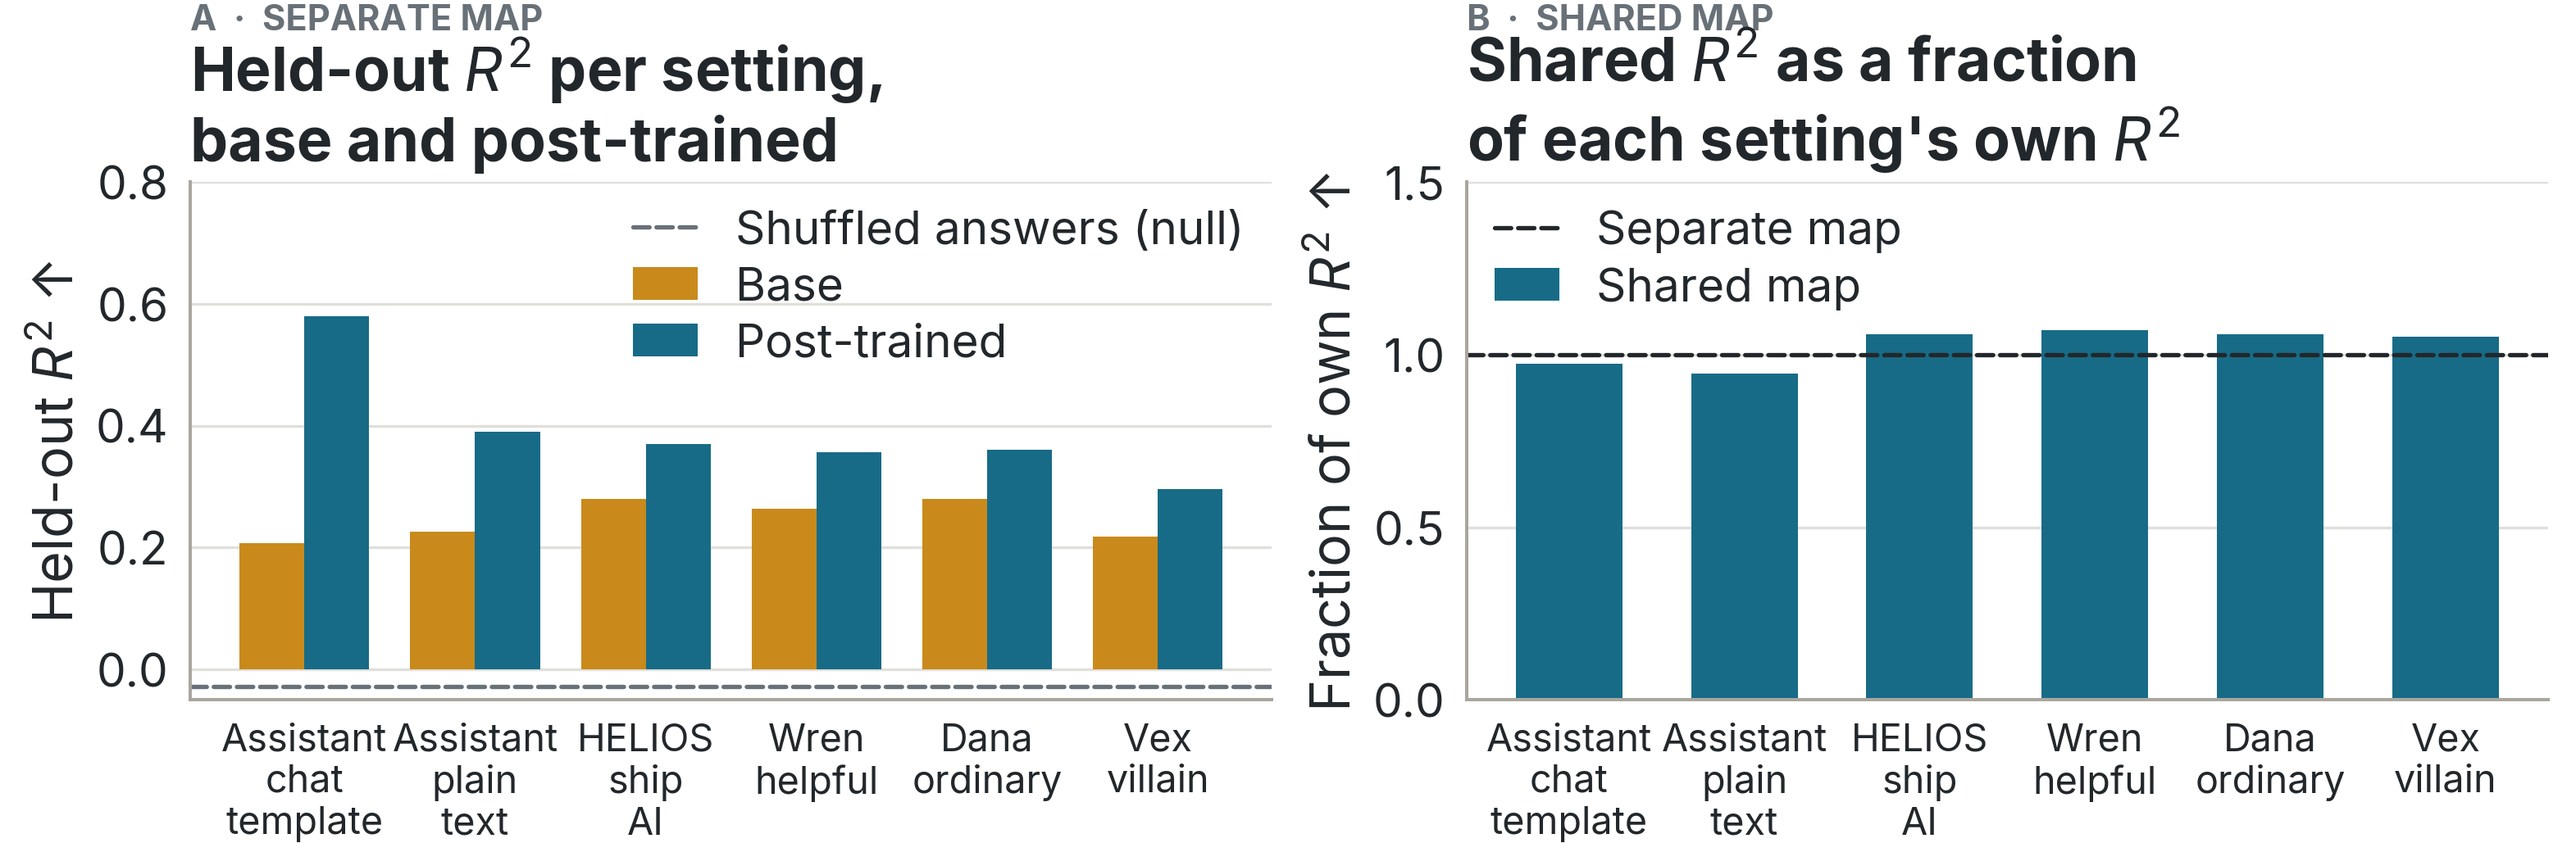
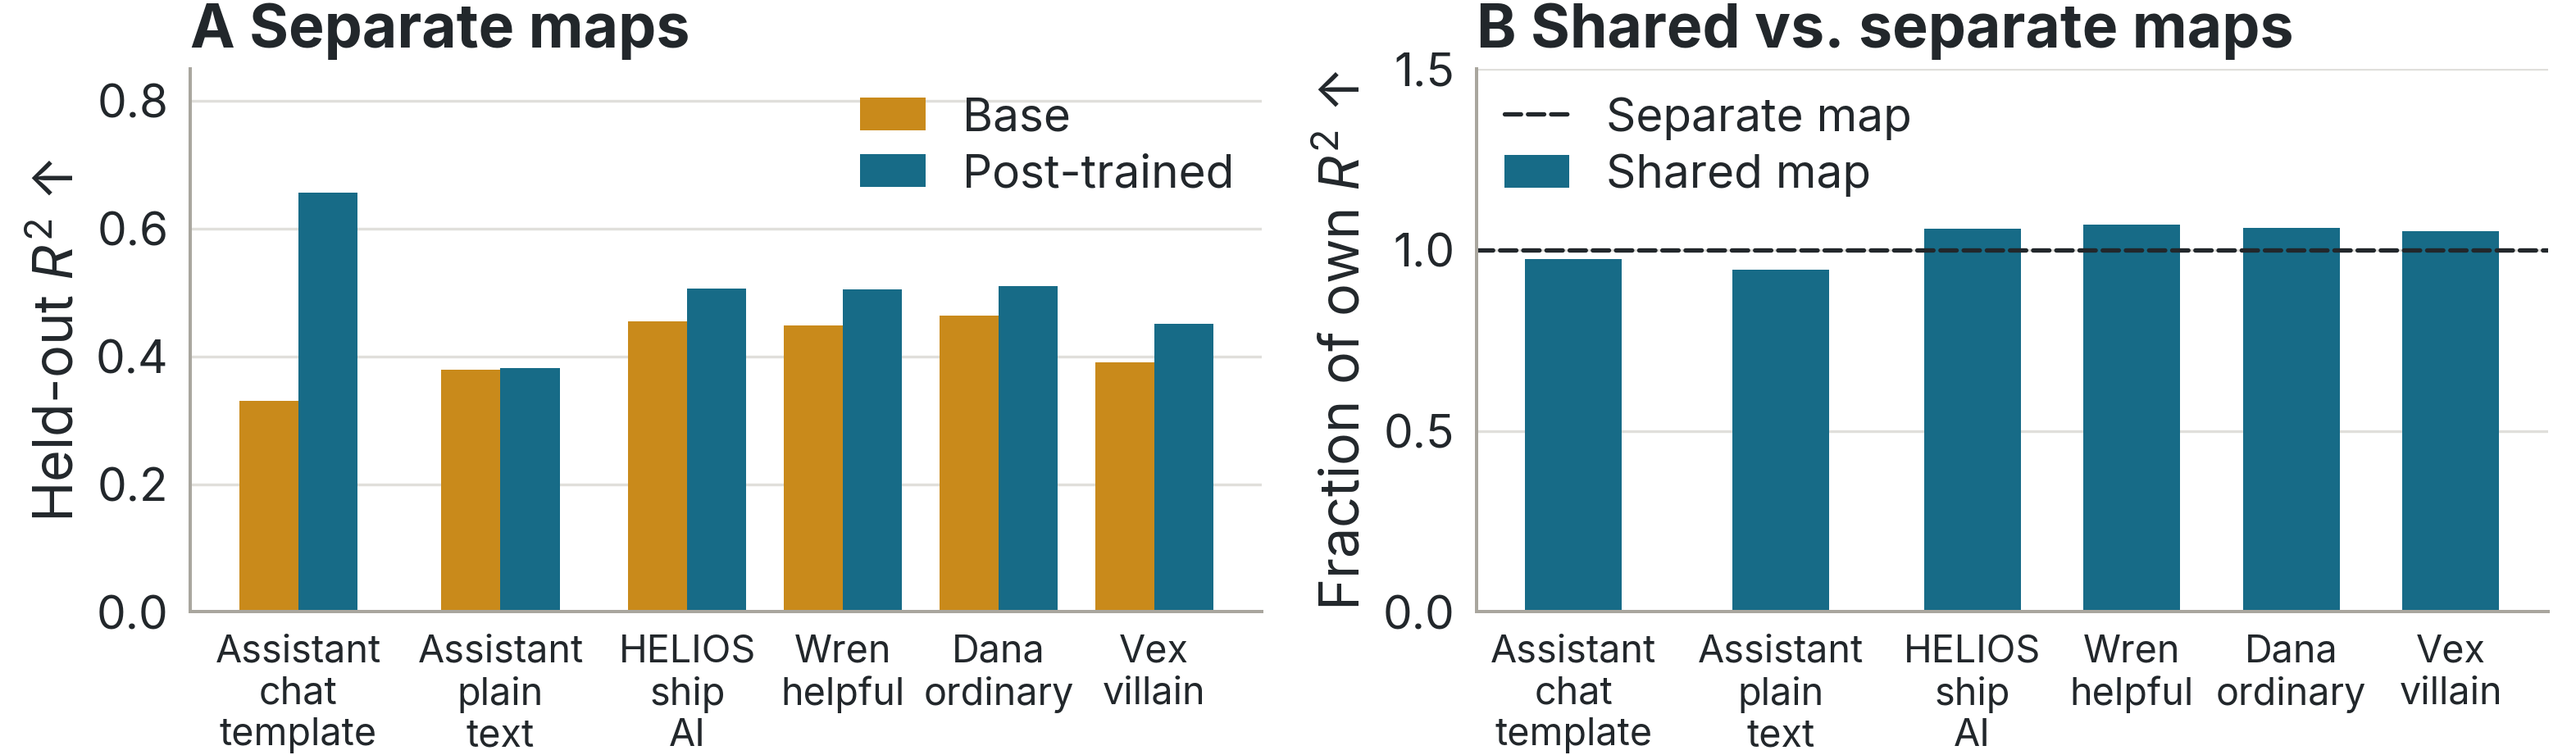
Simplify remade speaker figure headings and remove redundant null display

Changed region(s): [[0.0, 0.0, 0.9981, 1.0], [0.0, 0.2736, 0.0624, 0.3952]]

diff --git a/figures/paper/c4_shared_speakers.render.py b/figures/paper/c4_shared_speakers.render.py
@@ -17,7 +17,6 @@ import numpy as np
 from explore_persona_space.analysis.c2a_plot_style import (
     INK,
     METRIC_LABELS,
-    MUTED,
     ROLES,
     better_label,
     c2a_figure,
@@ -62,20 +61,13 @@ def main():
             color=style.color,
             label=style.label,
         )
-    ax_a.axhline(
-        own["null_level"],
-        color=MUTED,
-        linestyle="--",
-        linewidth=1.6,
-        label="Shuffled answers (null)",
-    )
     ax_a.set_ylabel(better_label(METRIC_LABELS["r2"]))
-    ax_a.set_ylim(min(-0.05, own["null_level"] - 0.02), 0.85)
+    ax_a.set_ylim(0.0, 0.85)
     panel_header(
         ax_a,
         "A",
         "Separate map",
-        title="Held-out $R^2$ per setting,\nbase and post-trained",
+        title="Separate maps",
         kicker_y=1.28,
         title_y=1.04,
     )
@@ -89,7 +81,7 @@ def main():
         ax_b,
         "B",
         "Shared map",
-        title="Shared $R^2$ as a fraction\nof each setting's own $R^2$",
+        title="Shared vs. separate maps",
         kicker_y=1.28,
         title_y=1.04,
     )
